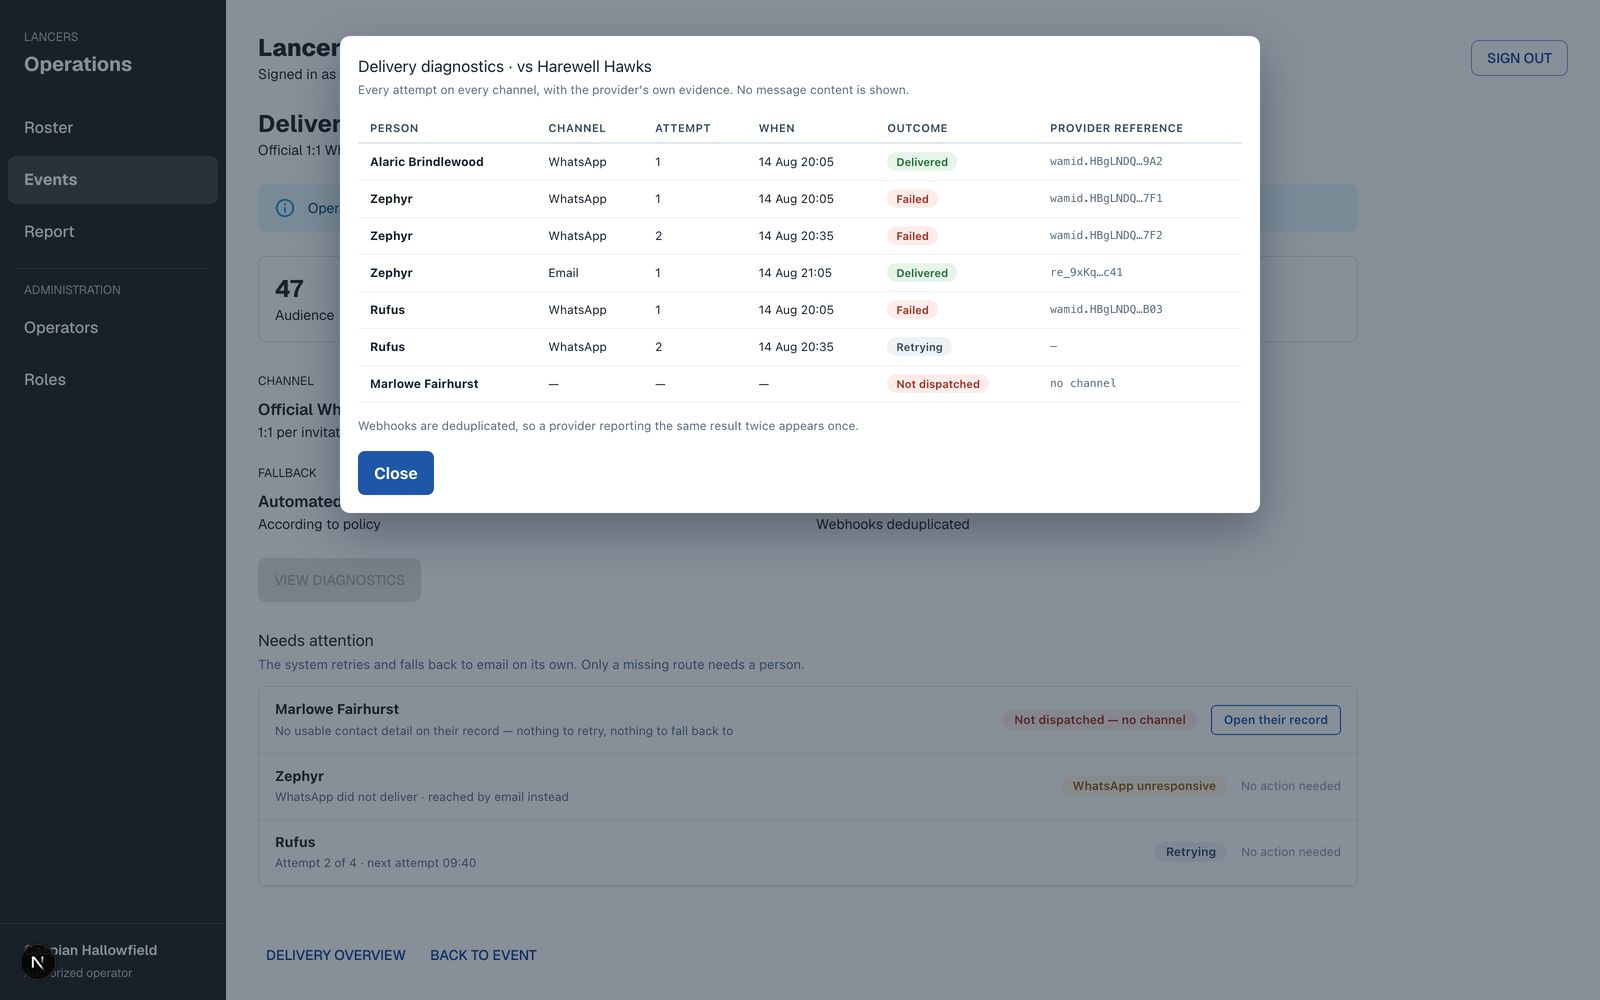
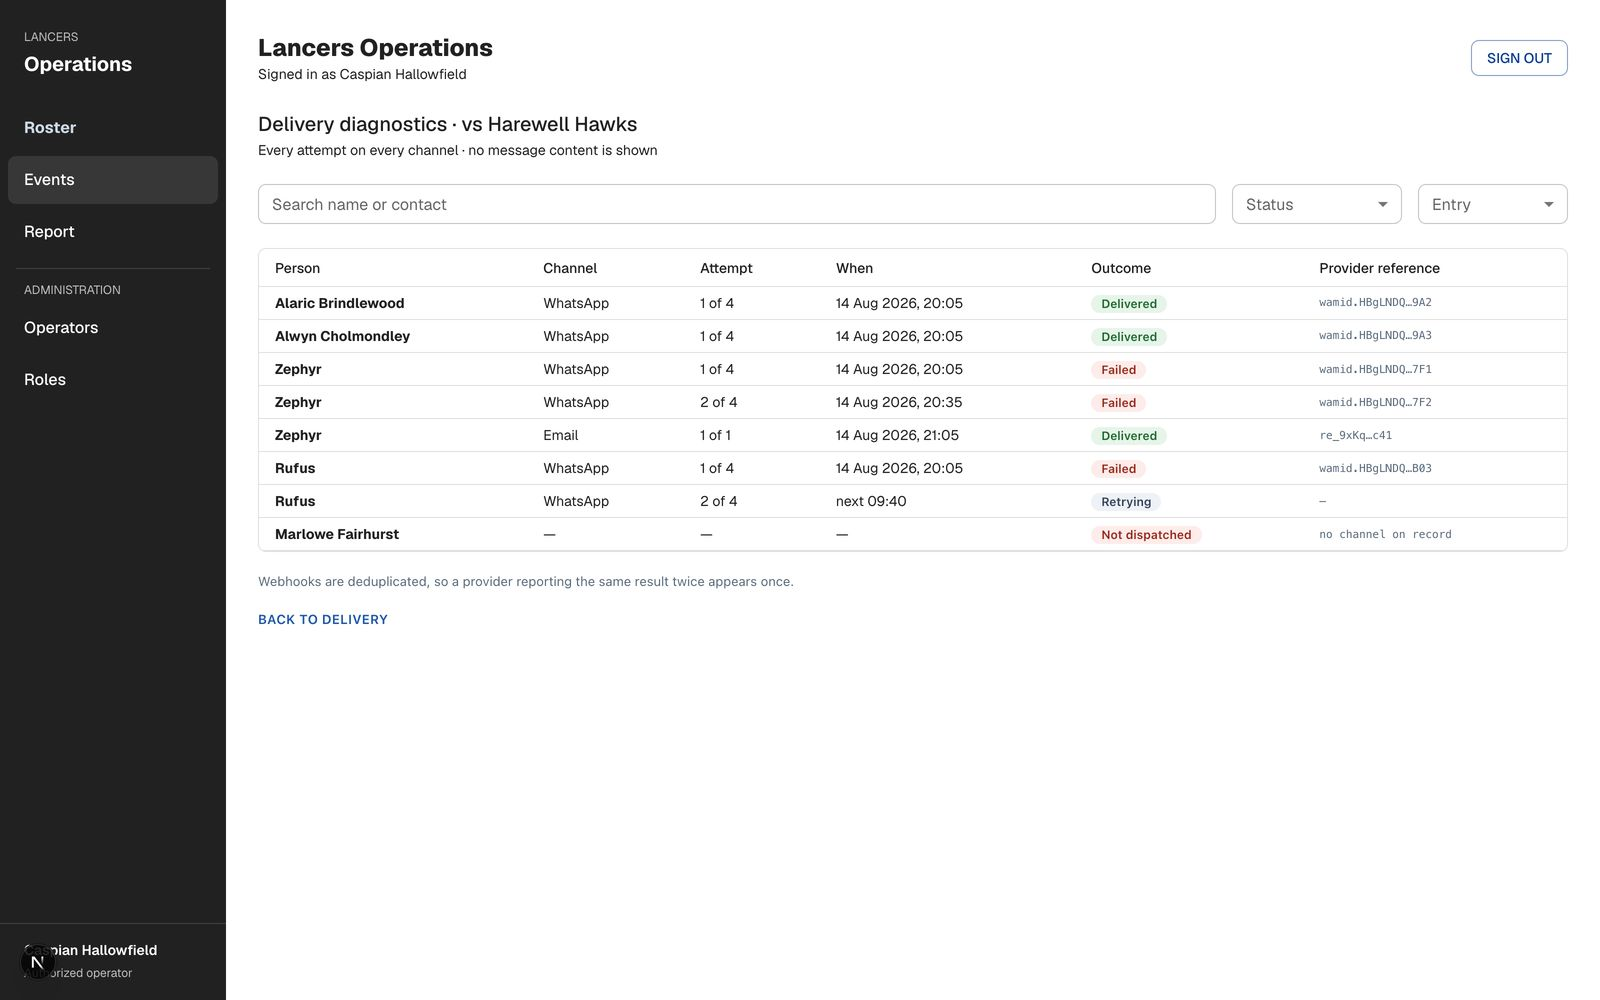
Make W6 diagnostics a page, not a dialog
The application has no modal of that kind, so proposing one introduced a pattern
nothing else uses. Diagnostics is now a page reached from the delivery page,
built on the same table, filters and chrome as the rest of the operator surfaces,
with a way back -- the shape every other destination already has.

diff --git a/missions/intake/M-AUTOMATED-COMMUNICATIONS-REMINDERS-RECOVERY/workflows/W6-repair-a-delivery-that-failed.md b/missions/intake/M-AUTOMATED-COMMUNICATIONS-REMINDERS-RECOVERY/workflows/W6-repair-a-delivery-that-failed.md
@@ -99,7 +99,10 @@ workflow's screens, and not in any other workflow of this mission. Brian raised
 it at review on 2026-08-25, expecting it to give the individual detail of what
 has been sent and what has not.
 
-Proposed: it is the per-person delivery record for one event, and it belongs
+Proposed: it is a **page**, reached from the delivery page and built on the same
+table and chrome as every other operator surface — not a dialog, because the
+application has none. It is the per-person delivery record for one event, and it
+belongs
 here rather than in a later workflow, because it is what makes R15's "documented
 recovery procedure" checkable rather than asserted. For each invitee it shows
 every attempt on every channel — when, which channel, the outcome, the provider's
